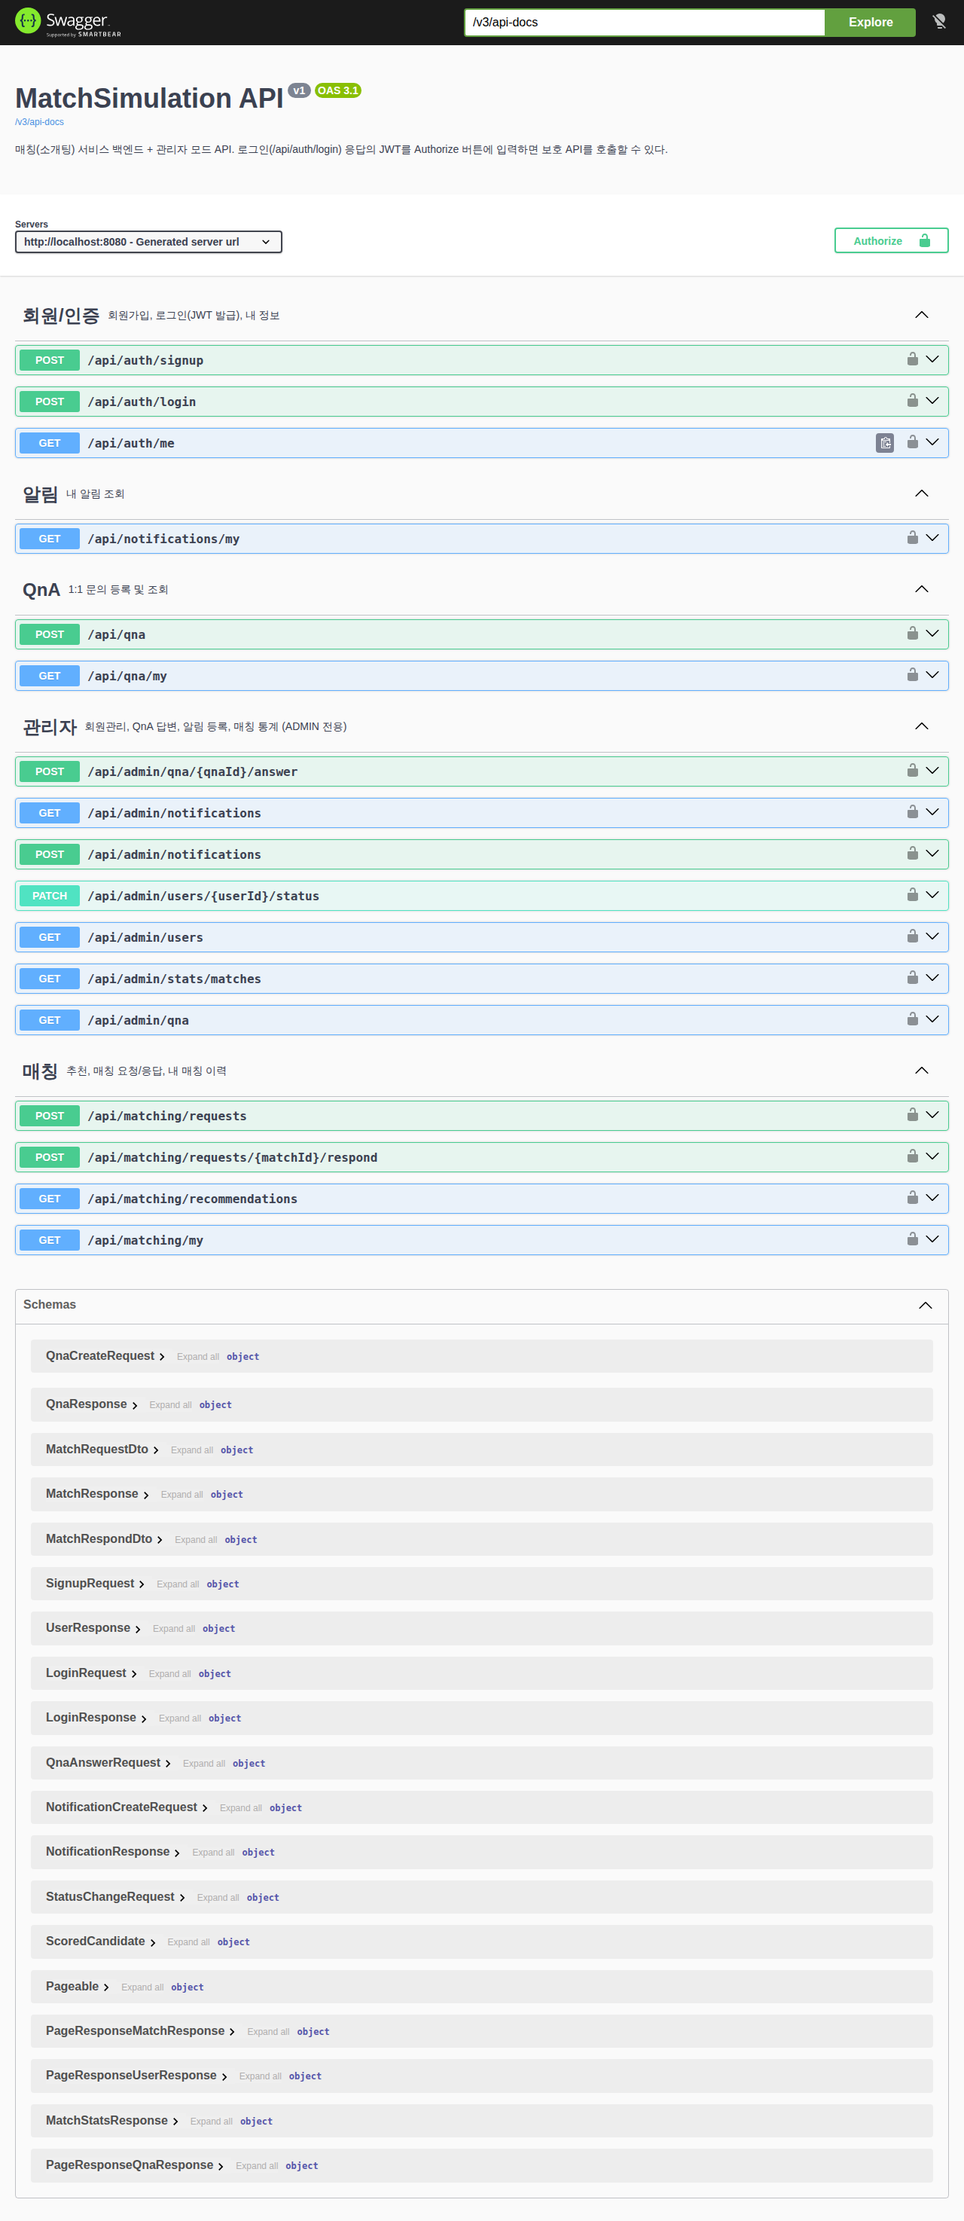
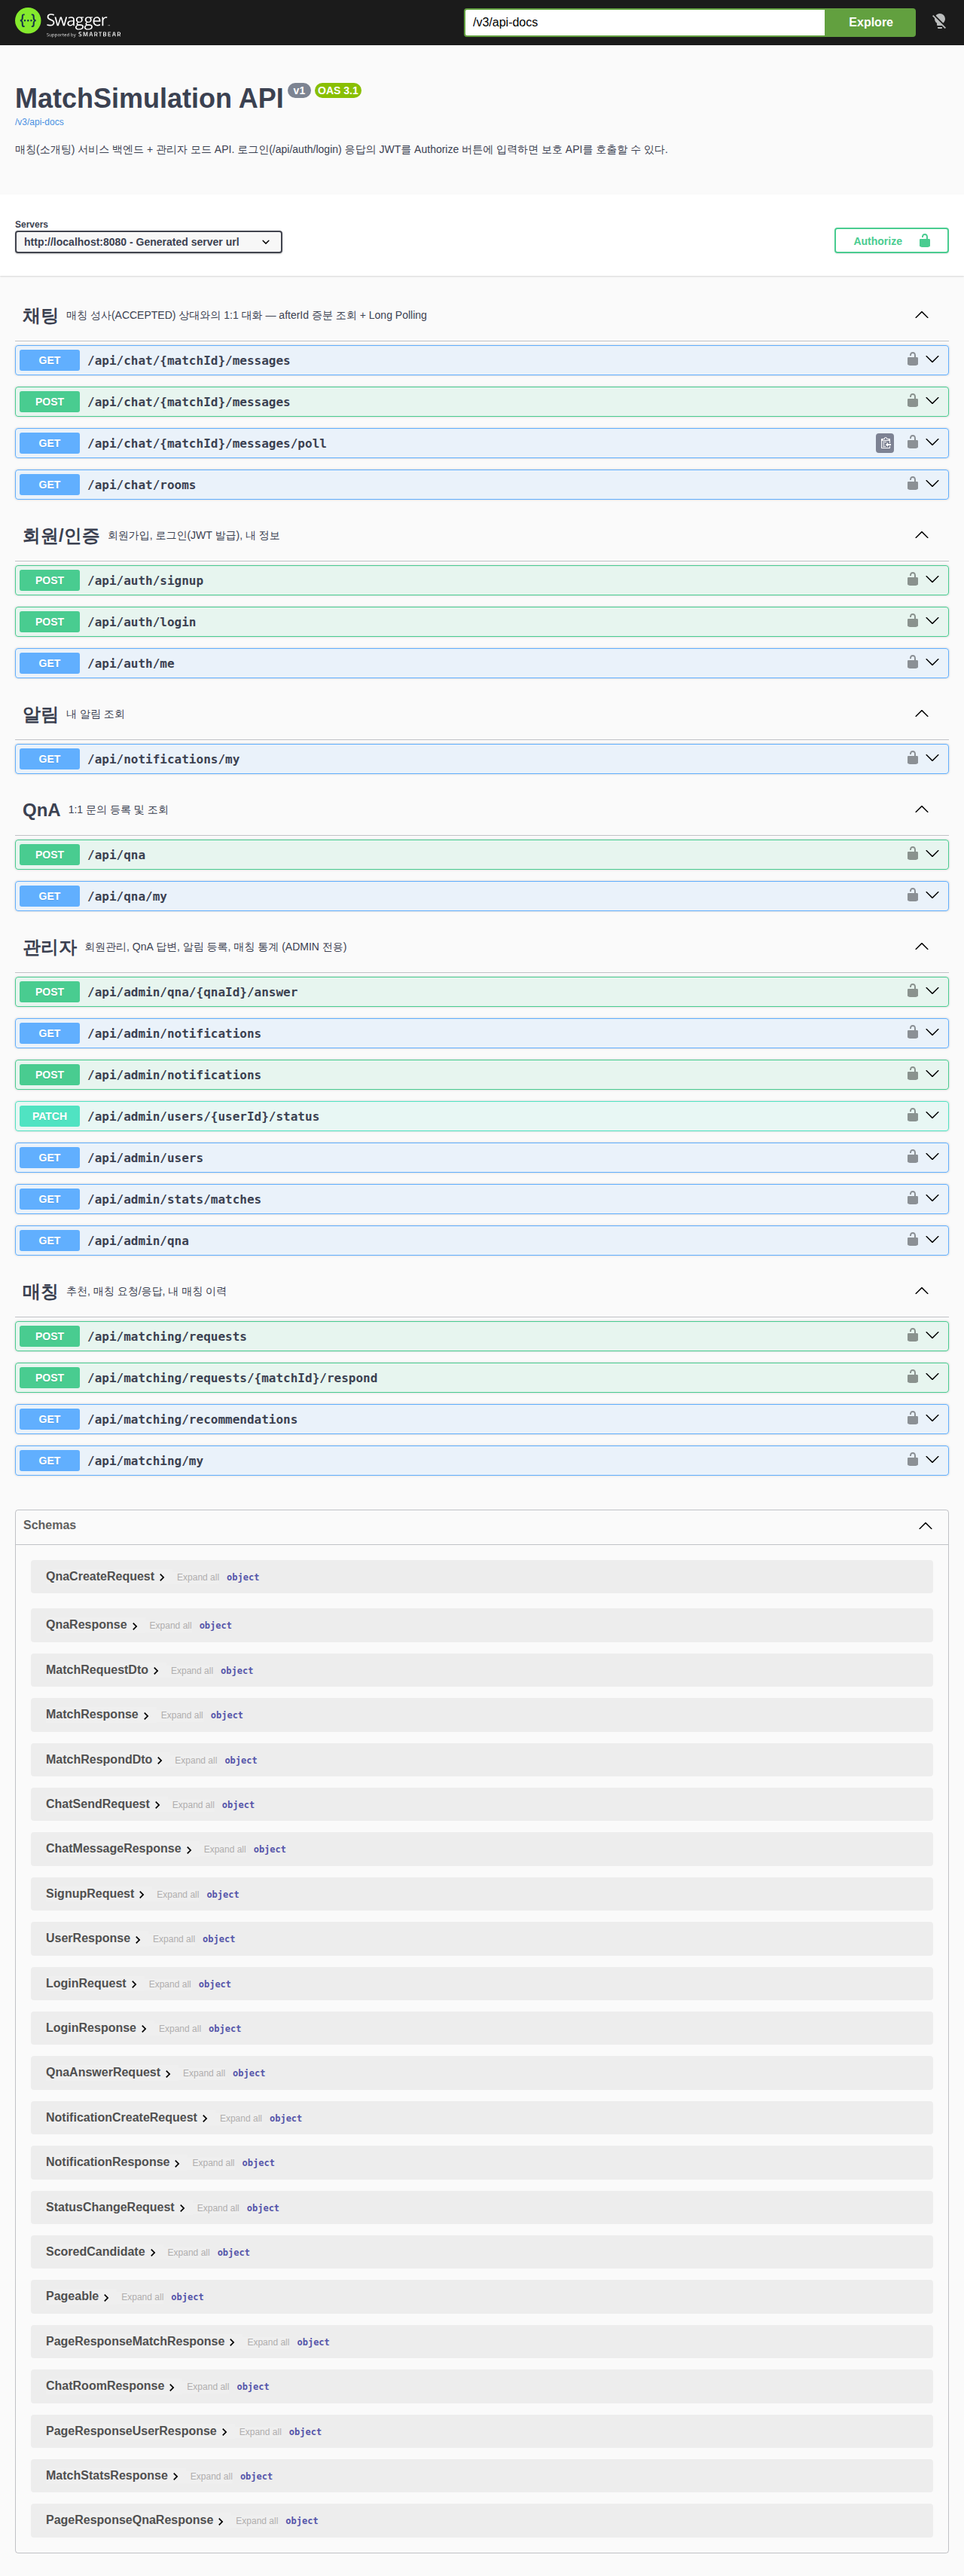
Refresh console screenshots and add chat capture
- Retake all 8 screenshots against Phase 5-3 build
- New 9_user_chat.png: bubble chat with Long Polling receive mode active
- Embed chat capture in user_mode.md and phase5_3 report

Claude-Session: https://claude.ai/code/session_014teyka6jbRqmBZmhU5KSRJ

Changed region(s): [[0.0, 0.0, 0.9688, 0.9986], [0.4688, 0.0, 1.0, 0.0312]]

diff --git a/docs/user_mode.md b/docs/user_mode.md
@@ -185,3 +185,4 @@ Response 200: 전체 공지 + 본인 대상 알림 (최신순)
 | ![추천](images/2_user_recommendations.png) | 추천 받기 — 점수·추천 사유 포함 응답 |
 | ![매칭 요청](images/3_user_match_request.png) | 매칭 요청 — REQUESTED 생성 |
 | ![문의 등록](images/4_user_qna.png) | 문의 등록 — WAITING 상태 |
+| ![채팅](images/9_user_chat.png) | 1:1 채팅 — 말풍선 대화 + 수신 모드(Long Polling) 자동 수신 중 |

diff --git a/docs/phase5_3_longpolling_report.md b/docs/phase5_3_longpolling_report.md
@@ -54,3 +54,7 @@
 | 5-2 | Short Polling (3초) | 자동화, 빈 응답 90% 실측 | #13 |
 | 5-3 | Long Polling (서버 대기) | 요청 수 1/5, 지연 ≈ 0 | 본 단계 |
 | 다음 | WebSocket | 양방향 실시간 (향후 과제) | - |
+
+## 6. 동작 화면
+
+![채팅 콘솔 — Long Polling 자동 수신](images/9_user_chat.png)
